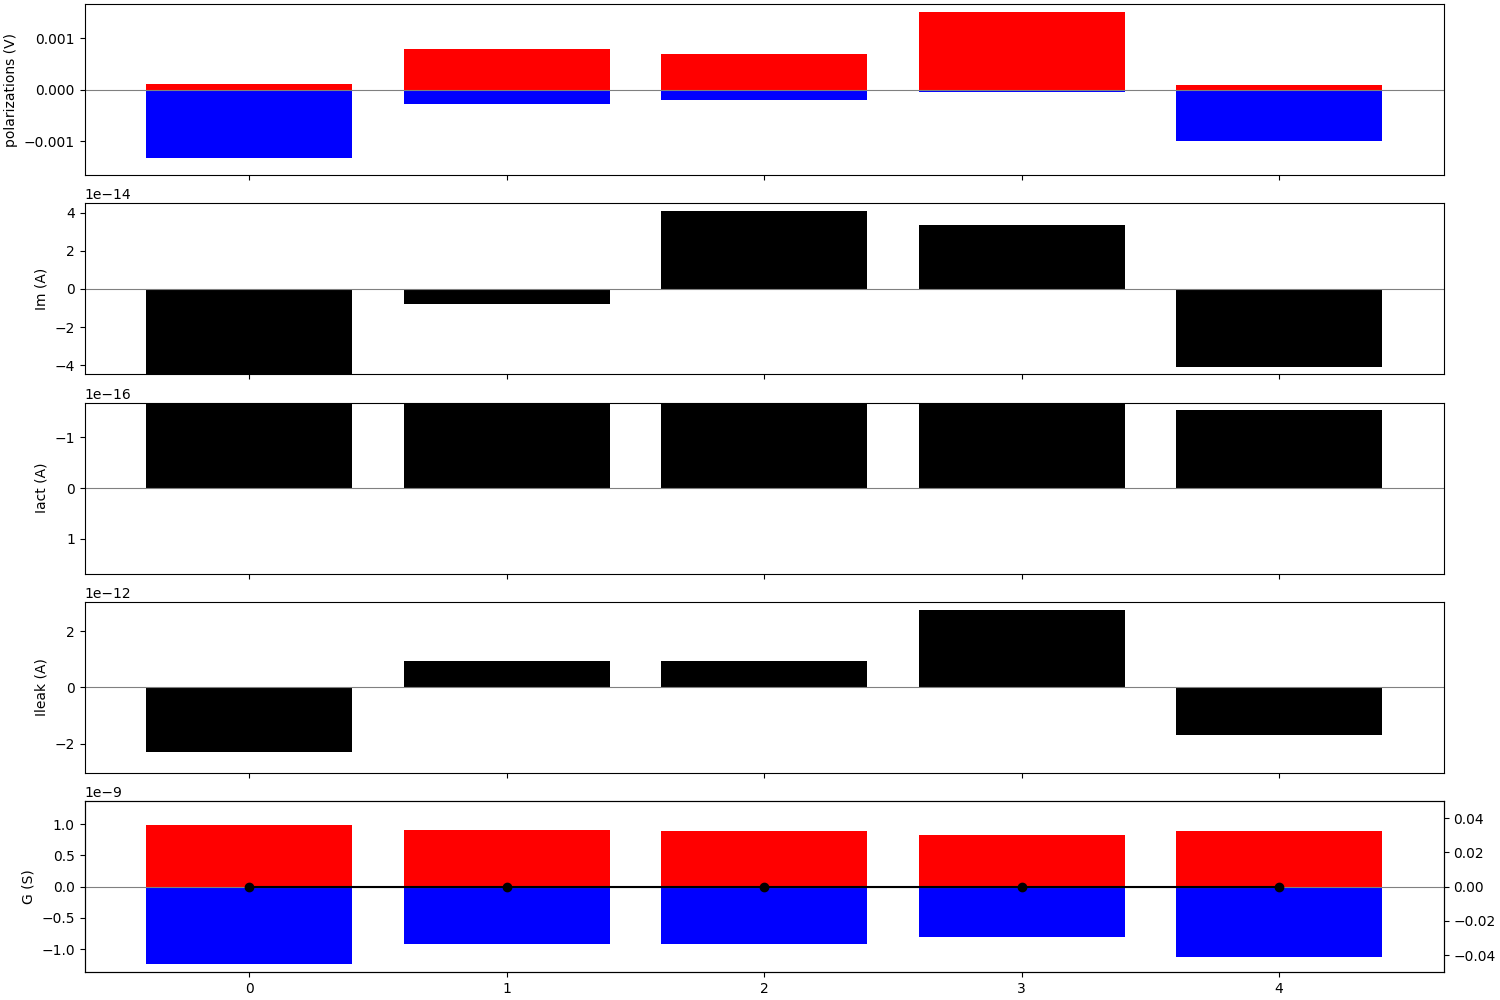
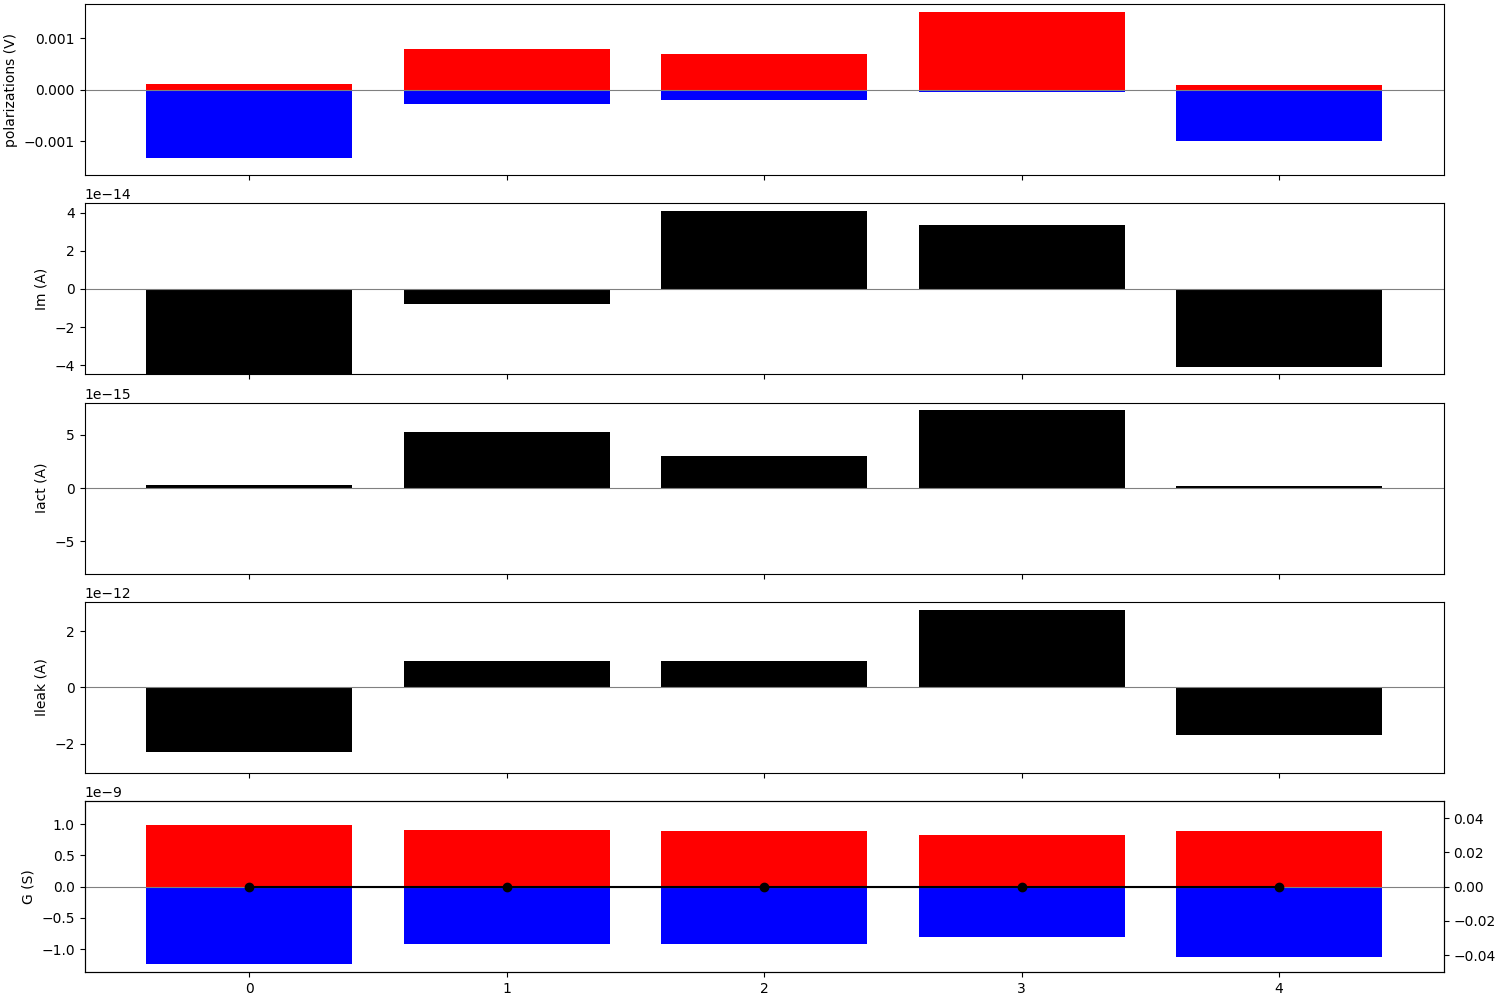
Optimization level arg in parser

Changed region(s): [[0.092, 0.403, 0.5827, 0.496], [0.7667, 0.403, 0.92, 0.496], [0.6133, 0.403, 0.736, 0.434]]

diff --git a/BatchAnalyzer.py b/BatchAnalyzer.py
@@ -17,8 +17,9 @@ def main():
     parser.add_argument("--set_inputdir", "-si", type=Path, default = None, help="set input directory in configurations")
     parser.add_argument("--set_outputdir", "-so", type=Path, default = None, help="set output directory in configurations")
     parser.add_argument("--run", "-r", action="store_true", help="Run all the files in a dictory and put the results in outputs")
-    parser.add_argument("--run-file", "-rf", type=Path, default = None, help="run a single file")
-    parser.add_argument("--run-user-files", "-ru", action="store_true", help="run user files from configuration")
+    parser.add_argument("--run_file", "-rf", type=Path, default = None, help="run a single file")
+    parser.add_argument("--run_user_files", "-ru", action="store_true", help="run user files from configuration")
+    parser.add_argument("--optimization_level", "-o", type=int, default=0, help="0: User-specified values of Eact, 1: Compute Eact based on PR with max depolarization, 2: Compute Eact for each PR")
     args = parser.parse_args()
     if args.show_configs:
         print(configs.settings)
@@ -39,14 +40,14 @@ def main():
         inputfiles = configs.get_input_files()
         files = [inputdir / filename for filename in inputfiles]
         analyzer = Analyzer(files, configs.get_output_directory(), configs.get_filters())
-        analyzer.run()
+        analyzer.run(args.optimization_level)
     if args.run_file is not None:
         inputdir = configs.get_input_directory()
         filepath = inputdir / args.run_file
         print(filepath, type(filepath), filepath.exists())
         if filepath.exists():
             analyzer = Analyzer([filepath], configs.get_output_directory(), configs.get_filters())
-            analyzer.run(0)
+            analyzer.run(args.optimization_level)
         else:
             raise BufferError(f"{filepath} doesn't exist!")
     if args.run_user_files is not None:
@@ -55,7 +56,7 @@ def main():
         for filepath in filepaths:
             if filepath.exists():
                 analyzer = Analyzer([filepath], configs.get_output_directory(), configs.get_filters())
-                analyzer.run(configs.get_optimiizer_level())
+                analyzer.run(args.optimization_level)
             else:
                 Warning(f"{filepath} does not exist. Skipping!")
 

diff --git a/libs/systems.py b/libs/systems.py
@@ -147,7 +147,7 @@ class WholeCellRecording:
             activation_current = alpha_current + beta_current
             activation_current[self.data[clamp] < self.parameters["Ess"][idx]] = 0.0
             activation_current[self.data[clamp] > self.parameters["Et"][idx]] = 0.0
-            self.data["Iactivation_"+str(clamp)] = -activation_current / 100
+            self.data["Iactivation_"+str(clamp)] = activation_current / 100
         return self.data
     
     def compute_membrane_currents(self, log=False):
@@ -361,9 +361,9 @@ class Analyzer:
             recordings, overall_stats = self.estimate_optimum_activation_potential(recordings)
             analysis_logger.info(f"Level 1 optimization: Completed.")
         elif optimize == 2:
-            analysis_logger.info(f"Level 3 optimization: Activation potentials optimized for every paradigm.")
+            analysis_logger.info(f"Level 2 optimization: Activation potentials optimized for every paradigm.")
             recordings, overall_stats = self.estimate_optimum_activation_potential_each_paradigm(recordings)
-            analysis_logger.info(f"Level 3 optimization: Complete.")
+            analysis_logger.info(f"Level 2 optimization: Complete.")
         result_filename = self.output_path / f"{filename}_analyzed"
         analysis_logger.info(f"Analysis of {filename} completed.")
         return recordings, overall_stats, result_filename
